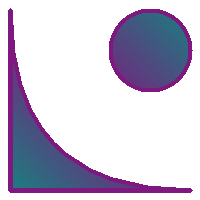
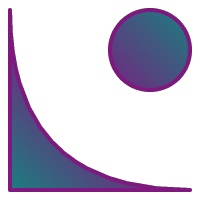
feat: anti-aliasing

diff --git a/src/wizdraw.rs b/src/wizdraw.rs
@@ -10,11 +10,13 @@ use crate::RWY_PXF_ARGB8888;
 use crate::RWY_PXF_RGBA8888;
 use crate::Float;
 
-use wizdraw::*;
+use wizdraw::push_cubic_bezier_segments;
+use wizdraw::stroke;
+use wizdraw::fill;
 
-use vek::bezier::repr_c::CubicBezier2;
-use vek::bezier::repr_c::QuadraticBezier2;
-use vek::vec::repr_c::vec2::Vec2;
+use vek::bezier::CubicBezier2;
+use vek::bezier::QuadraticBezier2;
+use vek::vec::Vec2;
 use vek::num_traits::real::Real;
 
 use core::f32::consts::PI;
@@ -83,7 +85,7 @@ fn ponder(a: u8, b: u8, p: u8) -> u8 {
     (((a as u32) * n1024 + (b as u32) * p1024) / 1024) as u8
 }
 
-pub fn rdr<const PXF: u8>(
+pub fn rdr<const PXF: u8, const SSAA: usize>(
     p: &Program,
     stack: &[Couple],
     dst: &mut [u8],
@@ -146,7 +148,7 @@ pub fn rdr<const PXF: u8>(
                         ctrl1: s(c),
                         end: s(d),
                     };
-                    simplify::<_, 6>(&curve, 1.0, &mut wizdraw_path);
+                    push_cubic_bezier_segments::<_, 8>(&curve, 0.6, &mut wizdraw_path);
                 }
                 QuadraticCurve => {
                     let [a, b, c] = p.quadratic_curves[*index].points;
@@ -155,7 +157,7 @@ pub fn rdr<const PXF: u8>(
                         ctrl: s(b),
                         end: s(c),
                     };
-                    simplify::<_, 6>(&curve.into_cubic(), 1.0, &mut wizdraw_path);
+                    push_cubic_bezier_segments::<_, 8>(&curve.into_cubic(), 0.6, &mut wizdraw_path);
                 }
                 Line => {
                     let [a, b] = p.lines[*index].points;
@@ -189,7 +191,7 @@ pub fn rdr<const PXF: u8>(
                 let p3_c = [s(c4).x * 255.0, s(c4).y * 255.0, s(c5).x * 255.0, s(c5).y * 255.0];
                 triangles.push(Triangle::new(p, [p1_c, p2_c, p3_c]));
             }
-            rasterize(&wizdraw_path, mask, size, None);
+            fill::<_, SSAA>(&wizdraw_path, mask, size);
             let mut j = 0;
             let mut k = 0;
             let mut q_i = 0;
@@ -223,7 +225,7 @@ pub fn rdr<const PXF: u8>(
             let p = s(stroker.pattern);
             let _p = [p.x, p.y];
             let w = s(stroker.width);
-            rasterize(&wizdraw_path, mask, size, Some(w.x + w.y));
+            stroke::<_, SSAA>(&wizdraw_path, mask, size, w.x + w.y);
             let rg = s(stroker.color[0]);
             let ba = s(stroker.color[1]);
             let [r, g, b, a] = [(rg.x * 255.0) as u8, (rg.y * 255.0) as u8, (ba.x * 255.0) as u8, (ba.y * 255.0) as u8];

diff --git a/src/lib.rs b/src/lib.rs
@@ -148,7 +148,7 @@ impl Program {
         None
     }
 
-    pub fn render<const PXF: u8>(
+    pub fn render<const PXF: u8, const SSAA: usize>(
         &self,
         stack: &[Couple],
         dst: &mut [u8],
@@ -157,7 +157,7 @@ impl Program {
         height: usize,
         pitch: usize,
     ) {
-        wizdraw::rdr::<PXF>(self, stack, dst, mask, width, height, pitch);
+        wizdraw::rdr::<PXF, SSAA>(self, stack, dst, mask, width, height, pitch);
     }
 
     /// does not check argument default values (on purpose)

diff --git a/examples/to_png.rs b/examples/to_png.rs
@@ -25,7 +25,7 @@ fn main() {
 	let runs = 100;
 	let now = Instant::now();
 	for _ in 0..runs {
-		p.render::<PXF>(&stack, &mut canvas, &mut mask, size.0, size.1, 0);
+		p.render::<PXF, 3>(&stack, &mut canvas, &mut mask, size.0, size.1, 0);
 	}
 	println!("rendered {} times in {}ms.", runs, now.elapsed().as_millis());
 
